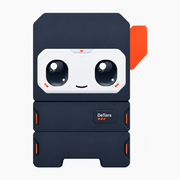
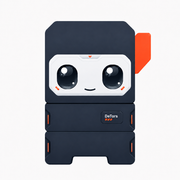
Show the whole app figure as the site mark
The mark was a crop of the official icon down to the robot's head, chosen so
the face would survive a 16px favicon. On the dark site that read as a picture
with its bottom cut off, and it no longer matched the icon in the user's dock.

Fidelity to the app wins: every mark is now a square crop of the same artwork
containing the entire figure. The crop keeps the icon's own horizontal
composition — body centred at x=512 with the orange flag poking out to the
right — rather than re-centring the figure's bounding box, which would shift
the body off-centre and break the composition it was drawn with.

Nav mark 32 -> 36px at a 22%-ish radius so it reads as an app icon rather than
a rounded thumbnail; footer mark 30px.

Changed region(s): [[0.1667, 0.0556, 0.8611, 0.9444], [0.5278, 0.6111, 0.6667, 0.6944]]

diff --git a/src/styles/global.css b/src/styles/global.css
@@ -67,7 +67,11 @@ section.band { padding: 96px 0; position: relative; z-index: 2; }
 .site-header.scrolled { border-color: var(--line); background: rgba(7, 5, 4, 0.82); }
 .hd { display: flex; align-items: center; justify-content: space-between; height: 74px; }
 .brand { display: flex; align-items: center; gap: 12px; font-family: var(--sg); font-weight: 700; font-size: 20px; letter-spacing: -0.01em; }
-.brand .mark { width: 32px; height: 32px; border-radius: 10px; display: block; border: 1px solid rgba(255, 255, 255, 0.12); }
+/* The mark is the whole app figure on its own light ground, so the tile is the
+   artwork's edge, not a crop: a squircle-ish 22% radius reads as the same icon
+   the user has in their dock. */
+.brand .mark { width: 36px; height: 36px; border-radius: 8px; display: block; border: 1px solid rgba(255, 255, 255, 0.12); }
+.site-footer .brand .mark { width: 30px; height: 30px; border-radius: 7px; }
 .brand .dot { color: var(--accent); }
 .site-nav { display: flex; gap: 30px; font-size: 14.5px; color: var(--muted); }
 .site-nav a { transition: color 0.2s; }
